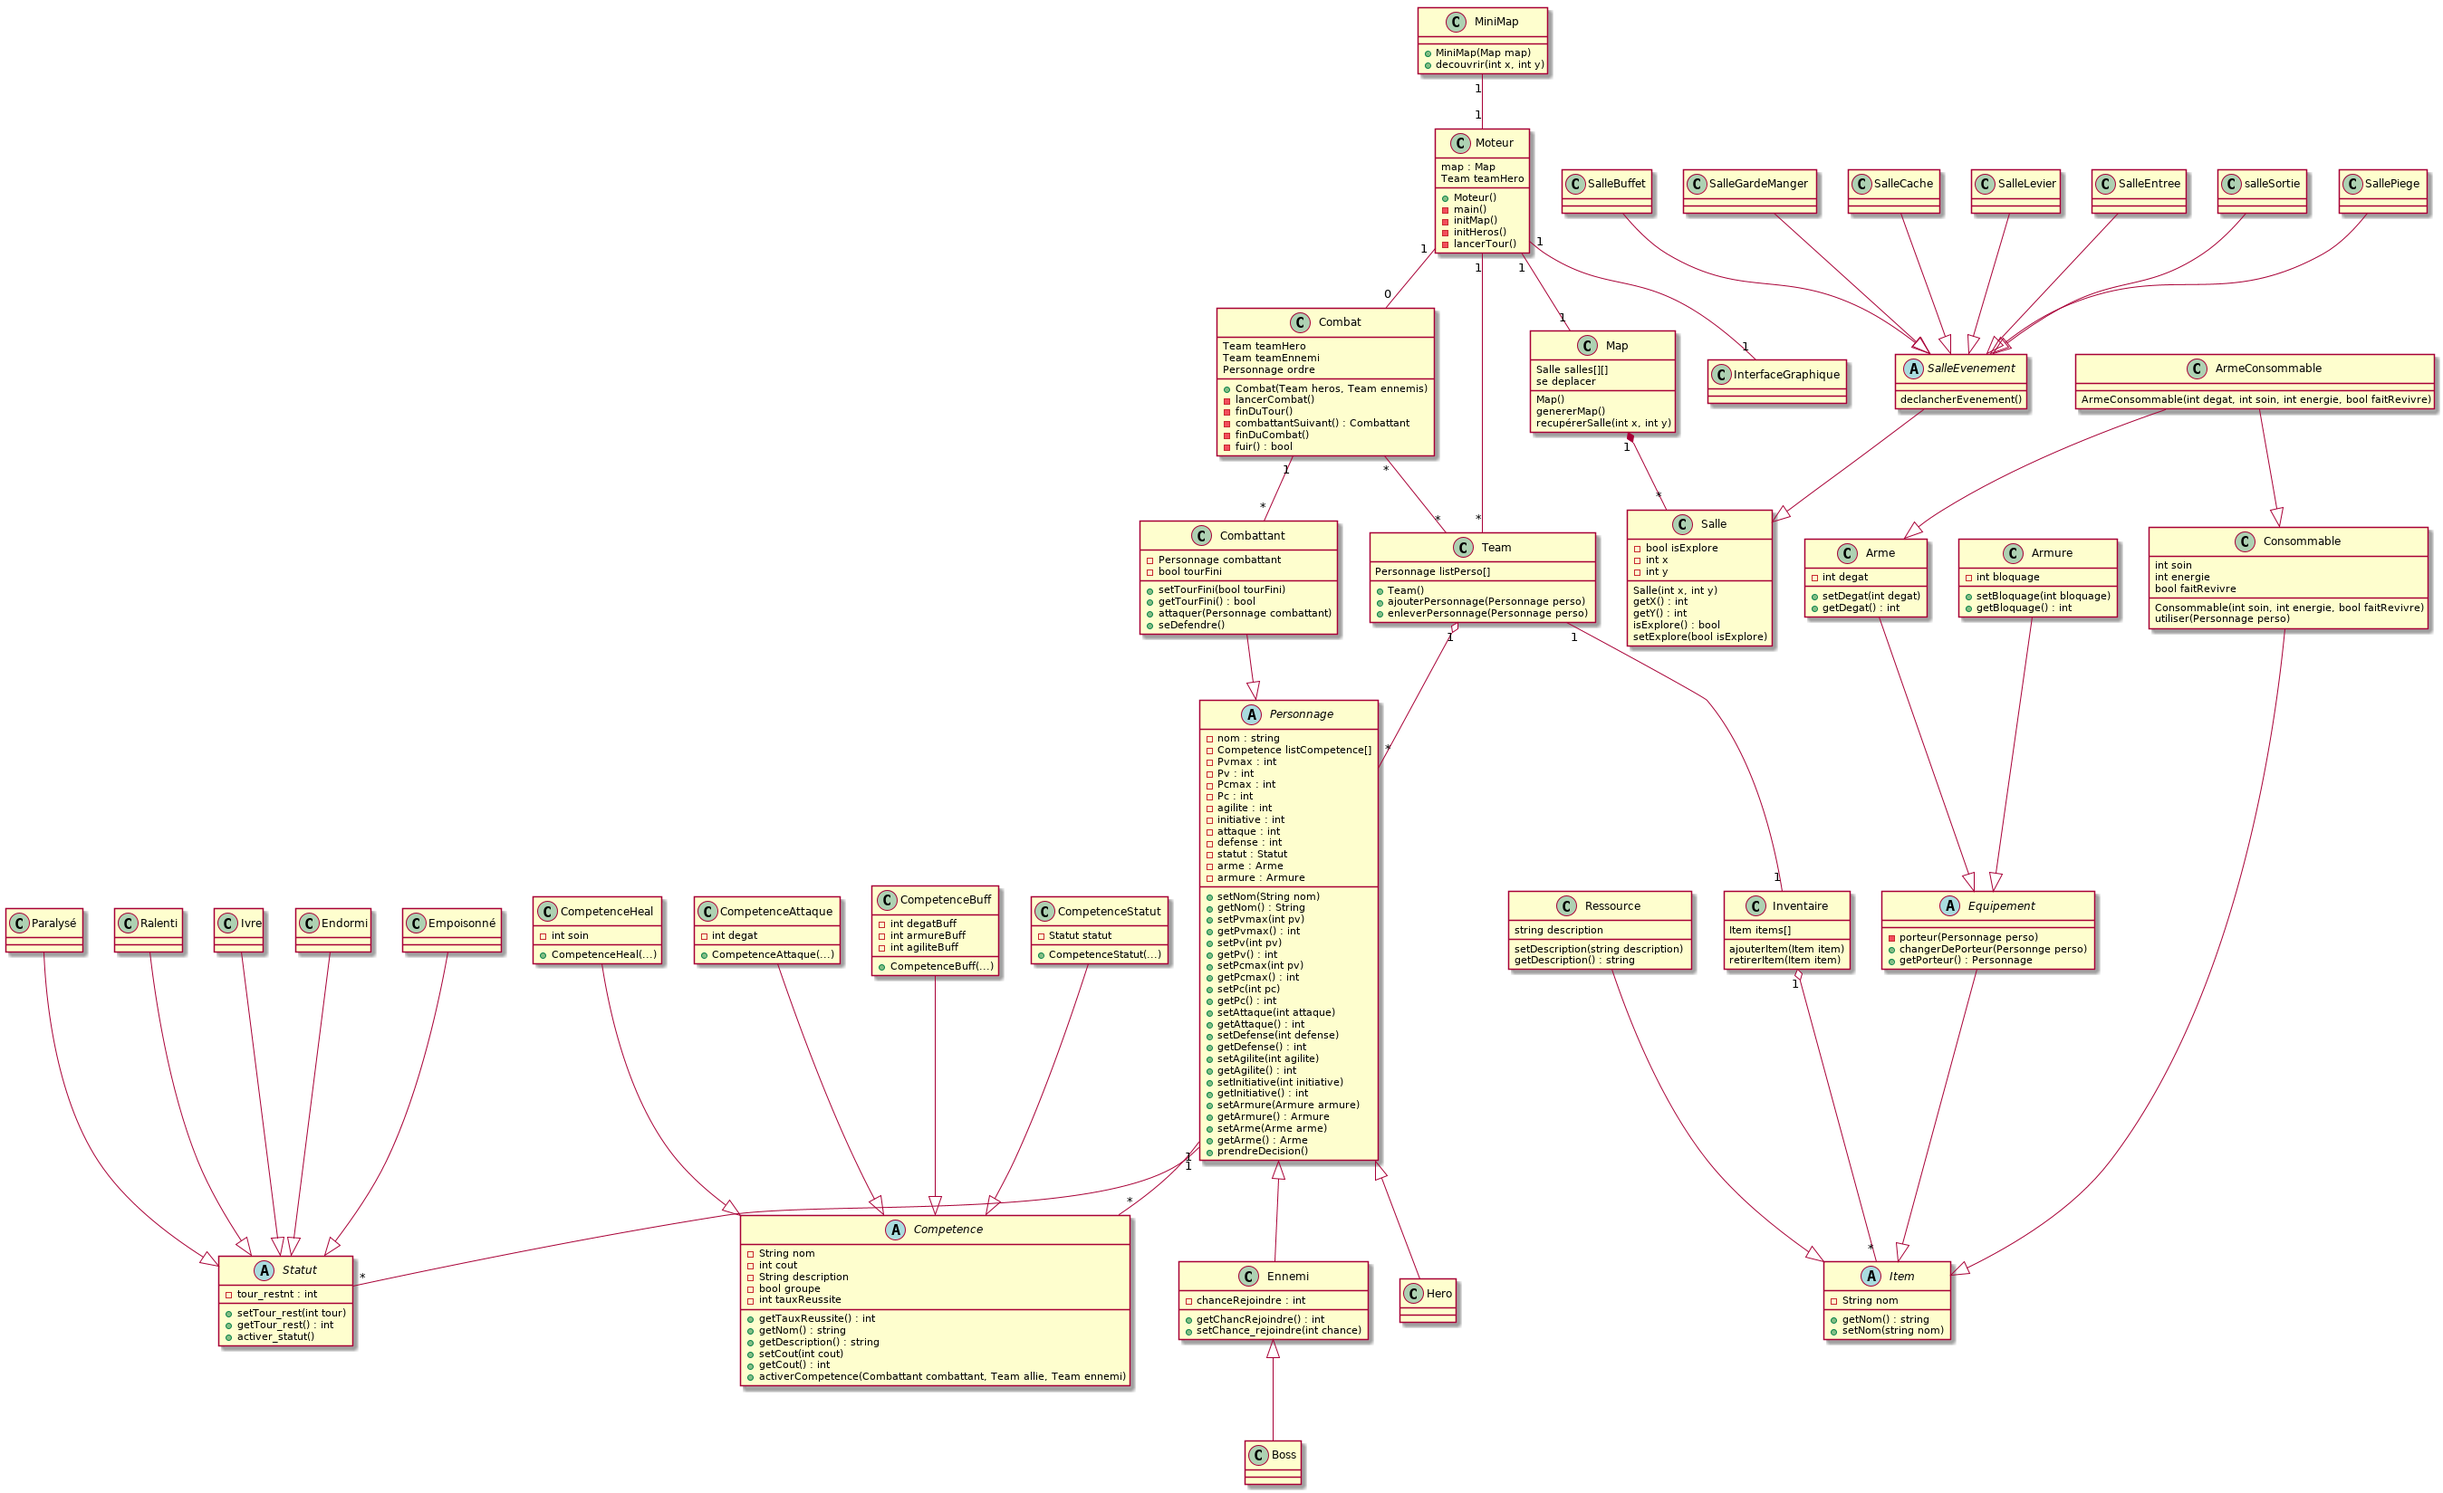
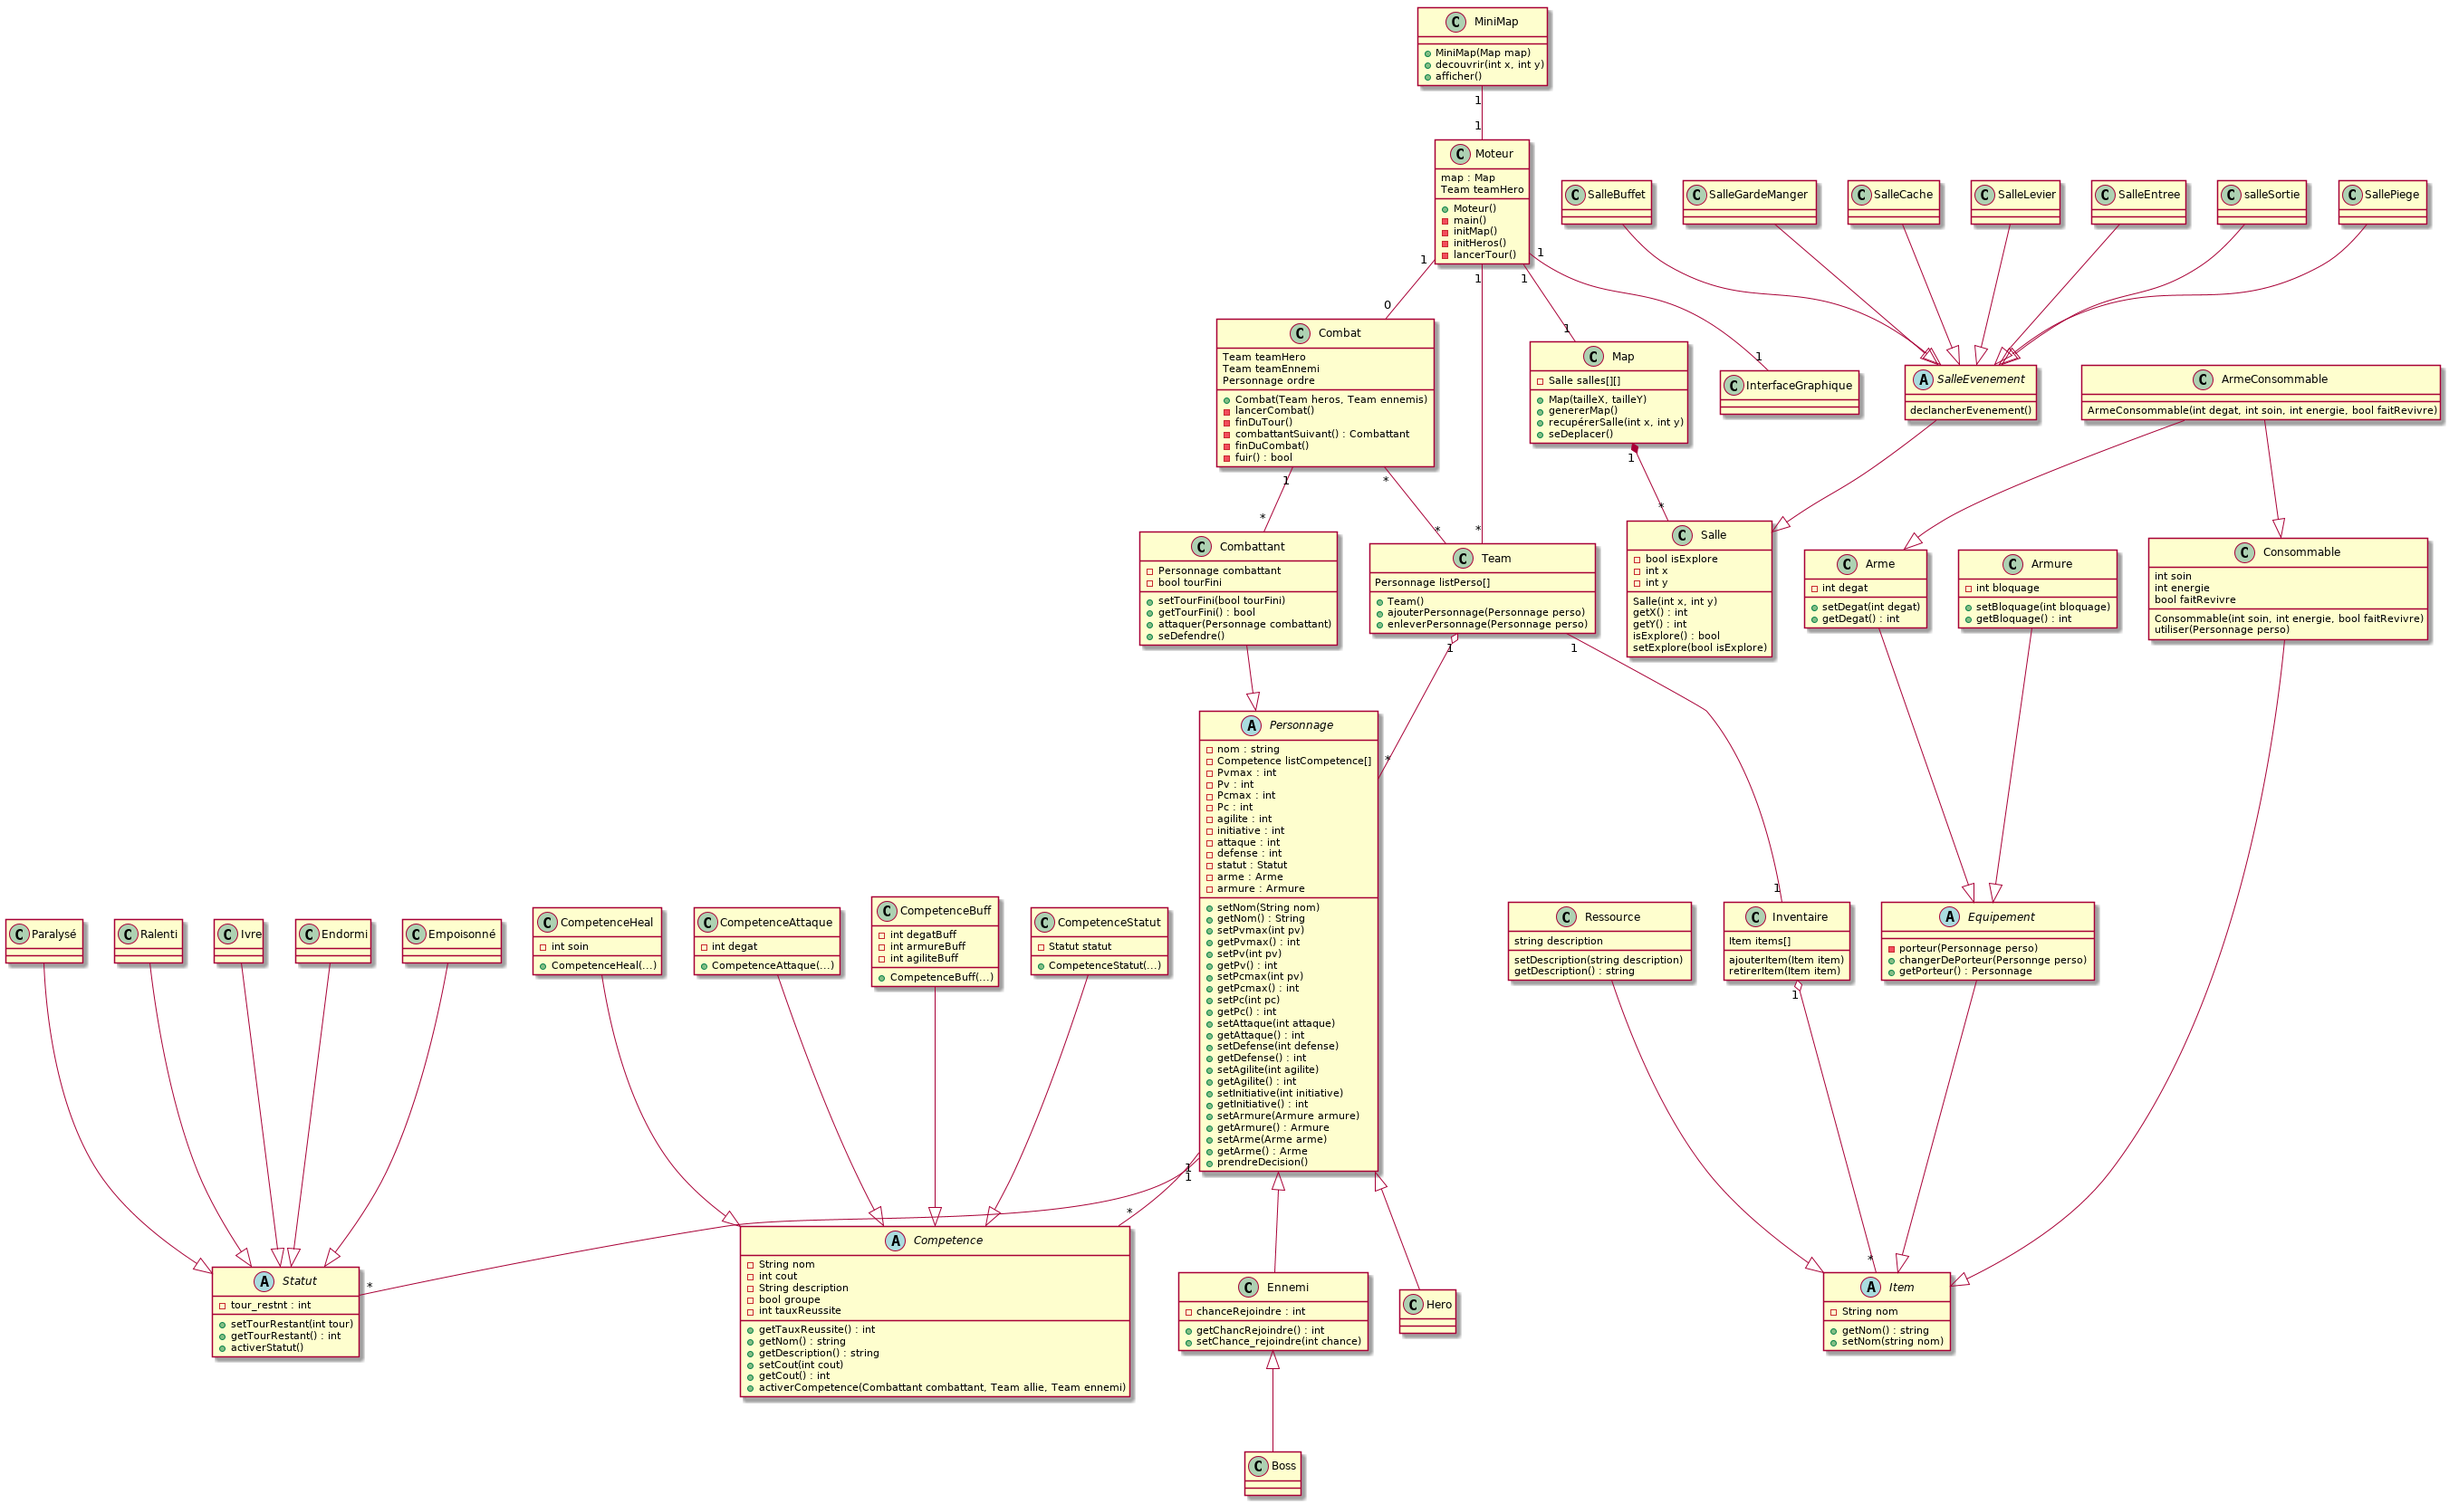
add MiniMap code

diff --git a/Code python/MiniMap.py b/Code python/MiniMap.py
@@ -1,0 +1,9 @@
+class MiniMap:
+    def __init__(self, map):
+        self.__map = map
+
+    def decouvrir(self, x, y):
+        print("ce lieu est découvert")
+
+    def afficher(self):
+        print("j'affiche la carte")
